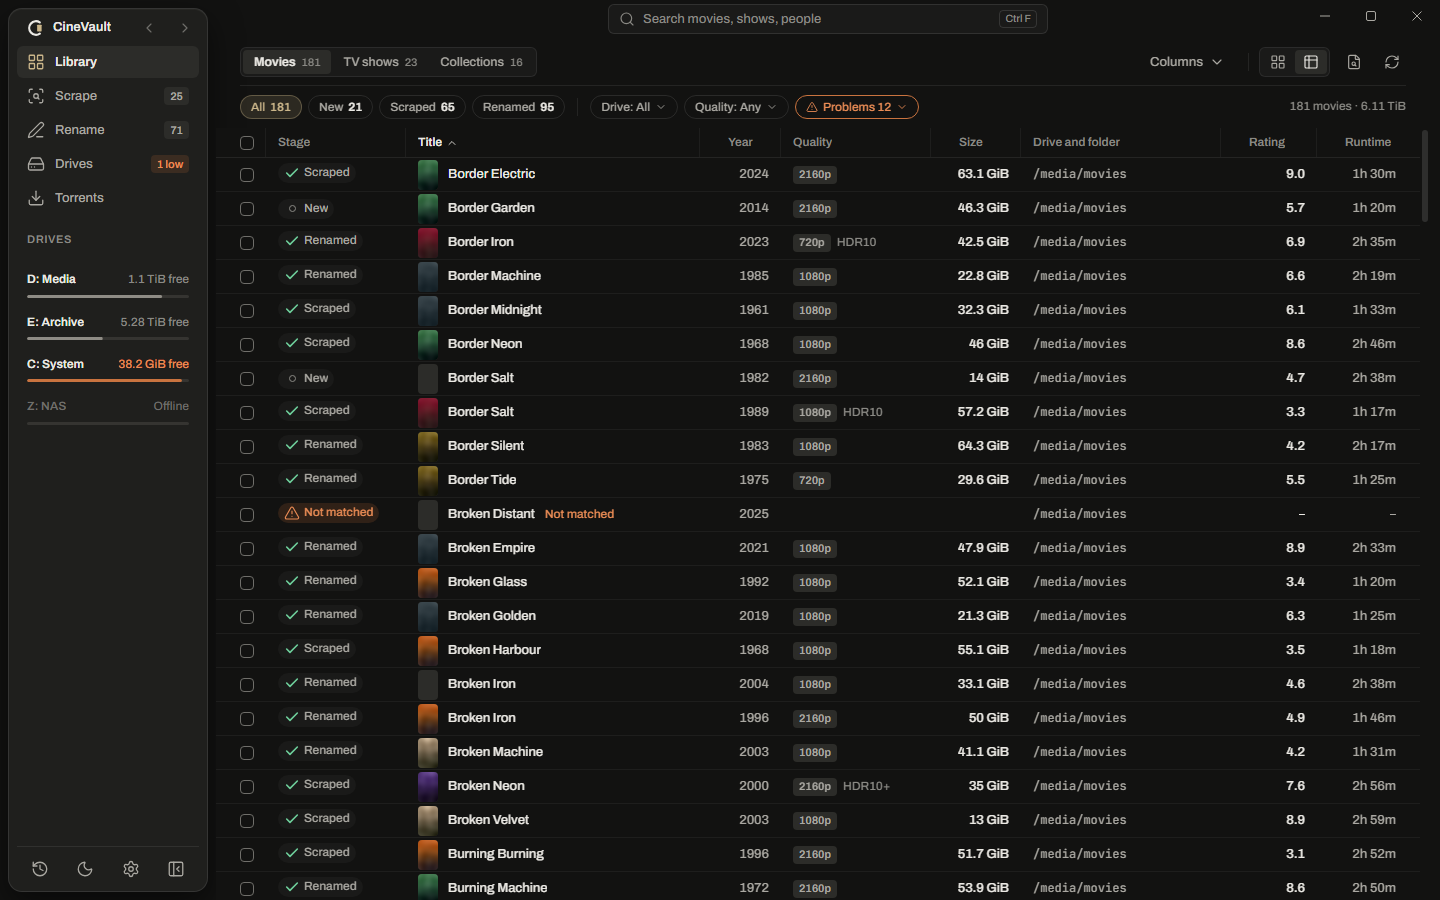
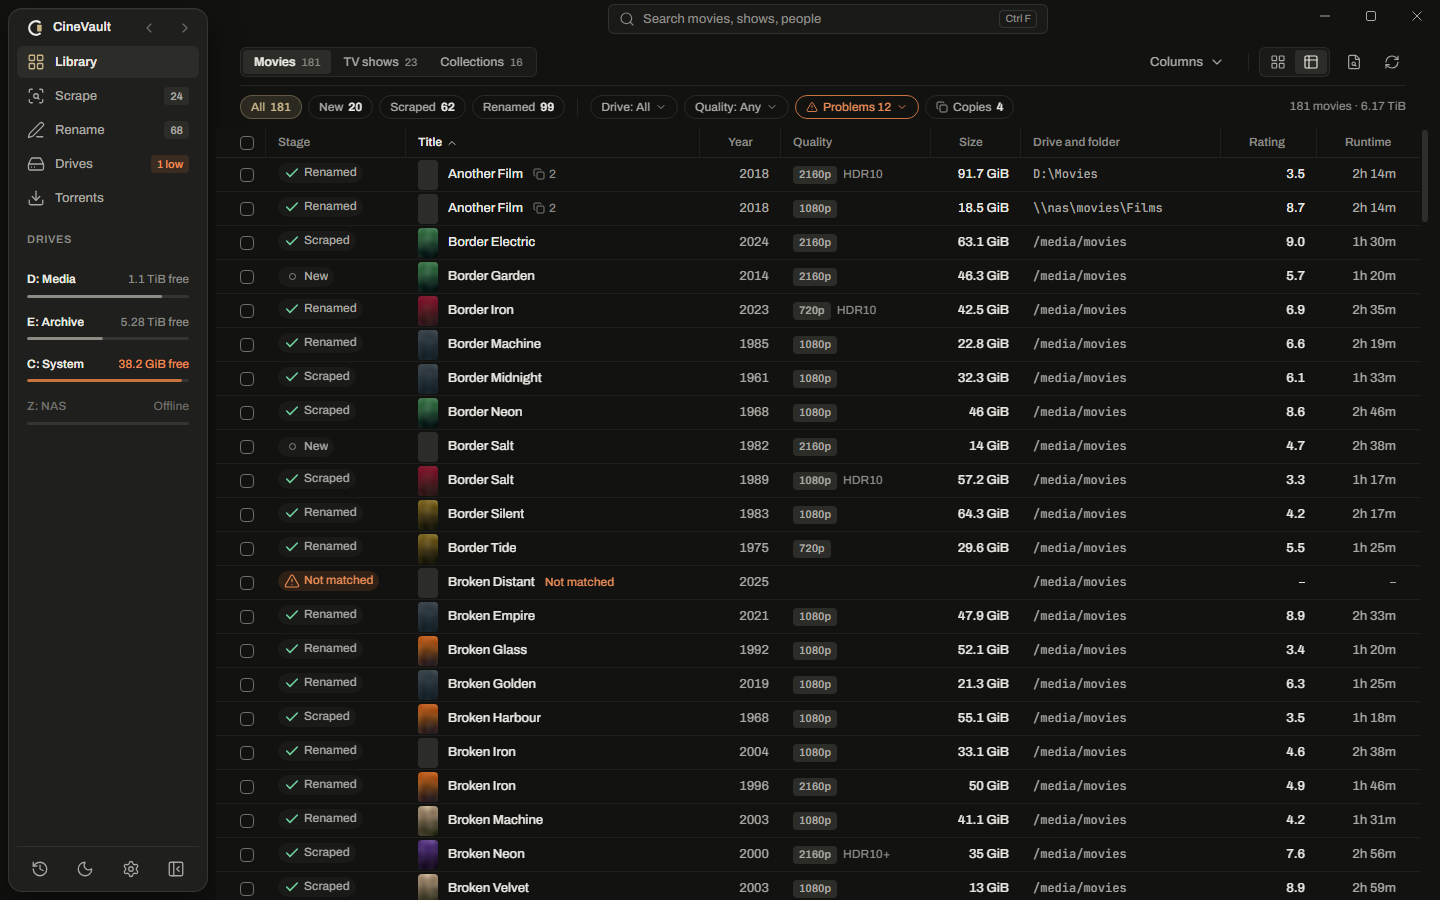
docs: show Copies in the Library screenshots, README, landing page and changelog
The Library grid and table images (README and site, dark and light) show
the Copies chip and the "2 copies" badge and count on the sample pairs.
The README and landing page mention the Copies filter, Compare, Keep this
one and Keep both, and the changelog lists the feature under 1.3.1.

diff --git a/site/index.html b/site/index.html
@@ -72,7 +72,7 @@
       <figure class="window window-hero reveal">
         <picture>
           <source srcset="img/library-light.webp" media="(prefers-color-scheme: light)">
-          <img src="img/library-dark.webp" width="1440" height="900" fetchpriority="high" alt="The CineVault Library: a grid of posters, each marked with its stage, the Movies, TV shows and Collections switch, the poster size control, filters for stage, drive, quality and problems, and the sidebar with Scrape, Rename, Drives and Torrents above the free space of every drive">
+          <img src="img/library-dark.webp" width="1440" height="900" fetchpriority="high" alt="The CineVault Library: a grid of posters, each marked with its stage, the Movies, TV shows and Collections switch, the poster size control, filters for stage, drive, quality, problems and copies, and the sidebar with Scrape, Rename, Drives and Torrents above the free space of every drive">
         </picture>
       </figure>
     </div>
@@ -113,6 +113,7 @@
             <li>Clear New, Scraped and Renamed tags on every title</li>
             <li>Automatic collections, with the films you are missing</li>
             <li>Problems filter for unmatched titles and missing files</li>
+            <li>Copies filter for the same movie twice: compare them side by side and keep the better one</li>
           </ul>
         </div>
         <figure class="window reveal">

diff --git a/site/changelog.html b/site/changelog.html
@@ -55,6 +55,10 @@
     <article class="log-entry" id="v1.3.1">
       <div class="log-meta"><h2>1.3.1</h2><span class="pill">Coming next</span></div>
       <div class="log-body">
+<h3>Added</h3>
+<ul>
+<li>Copies: if you have the same movie twice (say a 4K and a 1080p download), the Copies filter shows them, Compare puts them side by side, and Keep this one deletes the other the usual way. Keep both, and Rename gives each its own name, like '- 2160p' and '- 1080p'.</li>
+</ul>
 <h3>Changed</h3>
 <ul>
 <li>One Delete everywhere. It follows Settings › Deleted files; the separate Delete permanently item and Shift+Delete are gone, and a permanent delete asks Yes or No instead of making you type DELETE.</li>

diff --git a/README.md b/README.md
@@ -15,7 +15,7 @@
 </div>
 
 <p align="center">
-  <img src=".github/assets/library.png" alt="The Library in the dark theme: a poster grid with stage marks, stage filters with counts, and the sidebar with Scrape, Rename, Drives and Torrents" width="100%">
+  <img src=".github/assets/library.png" alt="The Library in the dark theme: a poster grid with stage marks and a 2 copies badge on two movies, stage filters with counts, a Copies filter, and the sidebar with Scrape, Rename, Drives and Torrents" width="100%">
 </p>
 
 ## What it does
@@ -26,6 +26,7 @@
 - **Ratings side by side.** TMDB, plus IMDb, Rotten Tomatoes, Metacritic, Letterboxd and Trakt with your own free OMDb or MDBList key.
 - **Search as you type.** Type in the search box and matching titles appear at once, grouped, with your recent searches and See all results. Punctuation, spacing, accents and small typos do not matter; messy release names still match, with a confidence score for every candidate.
 - **Library your way.** A poster grid with a size you choose, or a table with a Stage column whose columns you can move and resize.
+- **Copies of a movie.** If the same movie is in the library twice (a 4K and a 1080p download, say), the Copies filter lists them, Compare puts them side by side with the better value of each row marked, and Keep this one deletes the other the way Delete always does. Keep both leaves them alone, and Rename gives each its own name, such as `- 2160p` and `- 1080p`.
 - **HDR details.** The Technical card shows the exact HDR format (Dolby Vision profile, HDR10+, HDR10, HLG), audio and file details read from the file.
 - **Drives with safe moves.** Free space per drive and Move to another drive: copy, verify, and only then do the originals go to the Recycle Bin (the Trash on Linux).
 - **Deleted files handled your way.** Delete sends a title to the Recycle Bin or Trash, a trash folder on each drive or a trash folder you choose, and old trash can be emptied automatically. Choosing "Delete permanently" there makes Delete erase a title, after a Yes or No that lists what goes.

diff --git a/openspec/changes/compare-copies/tasks.md b/openspec/changes/compare-copies/tasks.md
@@ -34,7 +34,7 @@
 - [x] 6.2 "Keep this one" through `requestDelete` with the other copies, opening the kept copy's Movie page only after a delete that went through. Verified by `bun run test` (Recycle Bin with Undo toast, Ask before deleting off, Delete permanently opens its confirmation, cancel deletes nothing, "Keep this one" on the card that is not marked) and `cargo test -p cv-app --lib library_ops` with a test where two copies share one folder and only the other copy's files go.
 - [x] 6.3 "Keep both" / "Keep all" with an Undo toast, and "Ask again" on a kept group. Verified by `bun run test` (count and badges drop, Undo and Ask again bring them back).
 - [x] 6.4 After Keep this one, the toast's "Rename to drop the '- <label>' label?" when the kept copy carries a label that no longer clashes, opening the Rename preview for that movie. Verified by `bun run test` (offered for "- copy 2" and "- 2160p", absent for a plain name, opens the preview with the plain name, renames nothing by itself).
-- [ ] 6.5 `CHANGELOG.md` line under the unreleased version and `bun run site:changelog`; README and landing page wording; screenshots in `.github/assets/` and `site/img/` (dark and light) showing the chip, the Compare copies page and a labelled Rename preview. Verified by `bun run site:changelog -- --check` and the refreshed images.
+- [x] 6.5 `CHANGELOG.md` line under the unreleased version and `bun run site:changelog`; README and landing page wording; screenshots in `.github/assets/` and `site/img/` (dark and light) showing the chip, the Compare copies page and a labelled Rename preview. Verified by `bun run site:changelog -- --check` and the refreshed images.
 
 ## 7. Integration
 

diff --git a/CHANGELOG.md b/CHANGELOG.md
@@ -4,6 +4,10 @@ What changed in each version of CineVault, newest first, in plain words. The app
 
 ## [1.3.1] - unreleased
 
+### Added
+
+- Copies: if you have the same movie twice (say a 4K and a 1080p download), the Copies filter shows them, Compare puts them side by side, and Keep this one deletes the other the usual way. Keep both, and Rename gives each its own name, like '- 2160p' and '- 1080p'.
+
 ### Changed
 
 - One Delete everywhere. It follows Settings › Deleted files; the separate Delete permanently item and Shift+Delete are gone, and a permanent delete asks Yes or No instead of making you type DELETE.
